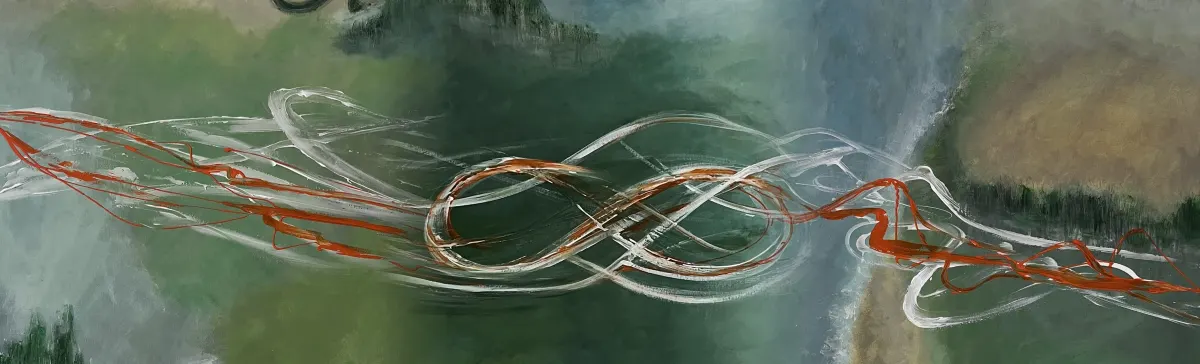
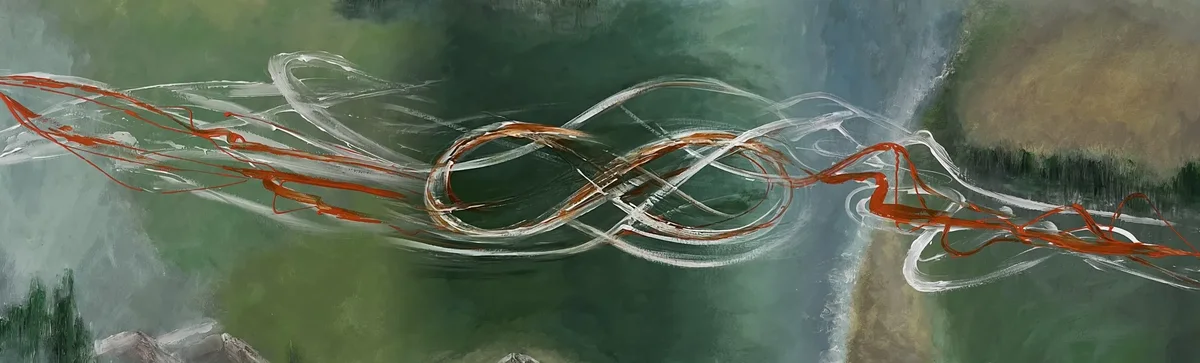
Who-we-are painting cropped lower: the eye is out, more of the lower part

diff --git a/style.css b/style.css
@@ -197,7 +197,7 @@ html.intro-out .intro{opacity:0;pointer-events:none}
 
 /* ---------- 8. Хто ми ---------- */
 /* Same composition as the lake block: a band of the studio's paintings, the ribbon through the middle */
-.who-land{--bg:url('assets/who-band.webp');padding:34px 24px 132px}
+.who-land{--bg:url('assets/who-band.webp?v=202611061221');padding:34px 24px 132px}
 .who-land .head .script{font-size:40px}
 .who-land .stack{gap:26px}
 /* Longest text in the middle, the two short ones at the sides, each card only as tall as its text */
@@ -460,7 +460,7 @@ form.ask .btn{height:56px}
   .crew-item .crew-role{align-self:start}
   .crew-item p{grid-column:1/-1;font-size:17px;margin-top:10px}
 
-  .who-land{--bg:url('assets/who-band-sm.webp');padding:36px 16px 56px}
+  .who-land{--bg:url('assets/who-band-sm.webp?v=202611061221');padding:36px 16px 56px}
 
   .founder-photo{position:relative;top:0}
   .founder-img{max-width:340px;border-radius:24px}

diff --git a/index.html b/index.html
@@ -17,7 +17,7 @@
 <link rel="preconnect" href="https://fonts.googleapis.com">
 <link rel="preconnect" href="https://fonts.gstatic.com" crossorigin>
 <link href="https://fonts.googleapis.com/css2?family=Cormorant+Garamond:ital,wght@0,500;0,600;0,700;1,500;1,600&family=Playfair+Display:wght@400;600;700&family=Marck+Script&display=swap" rel="stylesheet">
-<link rel="stylesheet" href="style.css?v=202611061214">
+<link rel="stylesheet" href="style.css?v=202611061221">
 <script>
   // Motion unless the visitor asked for less; the logo intro on every load; language: saved choice, else the browser's
   (function () {
@@ -672,7 +672,7 @@
   </div>
 </dialog>
 
-<script src="main.js?v=202611061214"></script>
+<script src="main.js?v=202611061221"></script>
 <nav class="vswitch" aria-label="Версія сайту"><a href="v1/index.html">До правок</a><a href="index.html" class="on" aria-current="page">З правками</a></nav>
 </body>
 </html>
